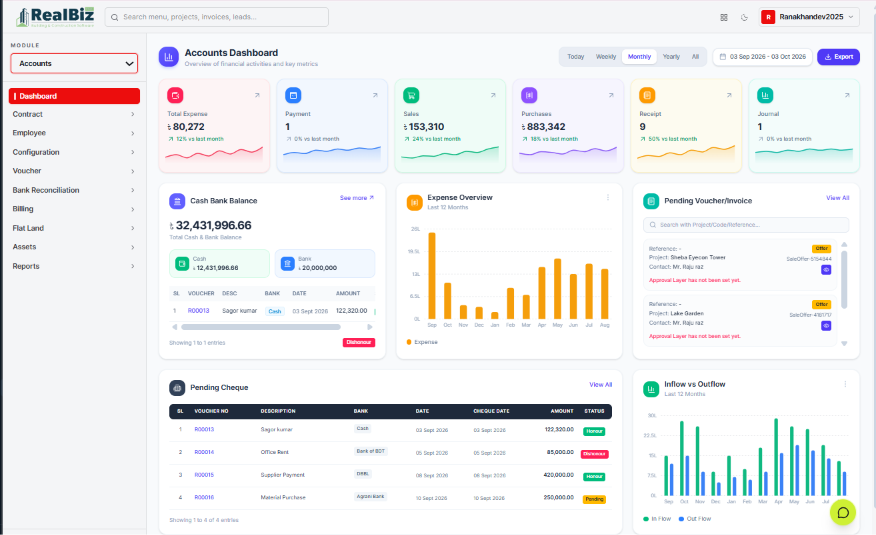
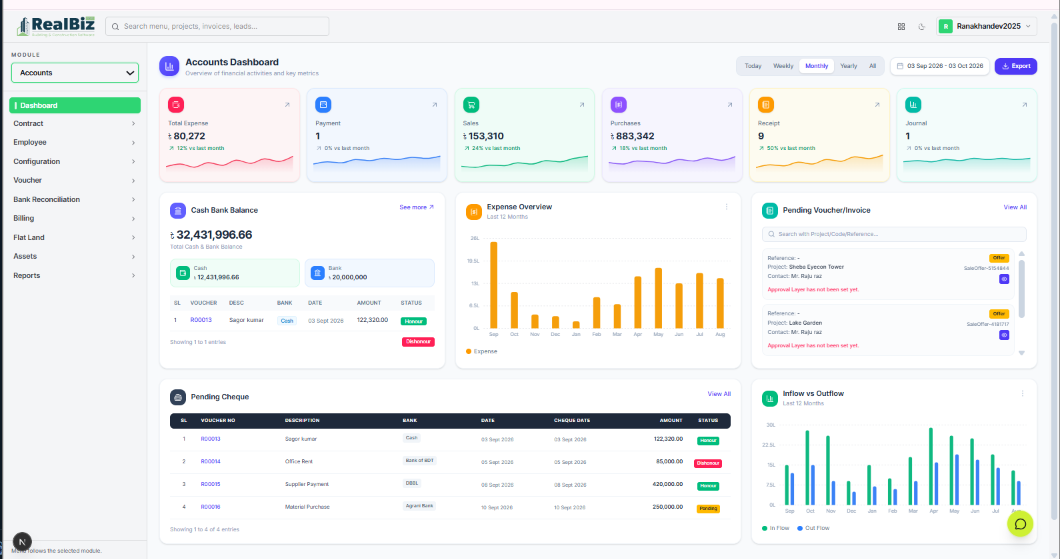
update hero section title

diff --git a/src/lib/language.tsx b/src/lib/language.tsx
@@ -902,8 +902,8 @@ const translations: Translations = {
 
     "legacy.eyebrow": "রিয়েলবিজের গল্প",
     "legacy.title": "অপারেটরদের দ্বারা, অপারেটরদের জন্য তৈরি",
-    "legacy.titleLine1": "প্রবৃদ্ধির",
-    "legacy.titleAccent": "নীলনকশা",
+    "legacy.titleLine1": "দ্য ব্লুপ্রিন্ট ",
+    "legacy.titleAccent": "অব গ্রোথ",
     "legacy.paragraph1":
       "RealBiz শুরু হয়েছিল একটি সাধারণ পর্যবেক্ষণ থেকে: রিয়েল এস্টেট টিমগুলো কোটি টাকার কার্যক্রম চালাচ্ছিল স্প্রেডশিট আর গ্রুপ চ্যাটের উপর ভিত্তি করে। লিড হারিয়ে যেত, ফলো-আপ মিস হতো, আর মালিকদের ব্যবসার কোনো একক দৃষ্টিভঙ্গি ছিল না।",
     "legacy.paragraph2":
